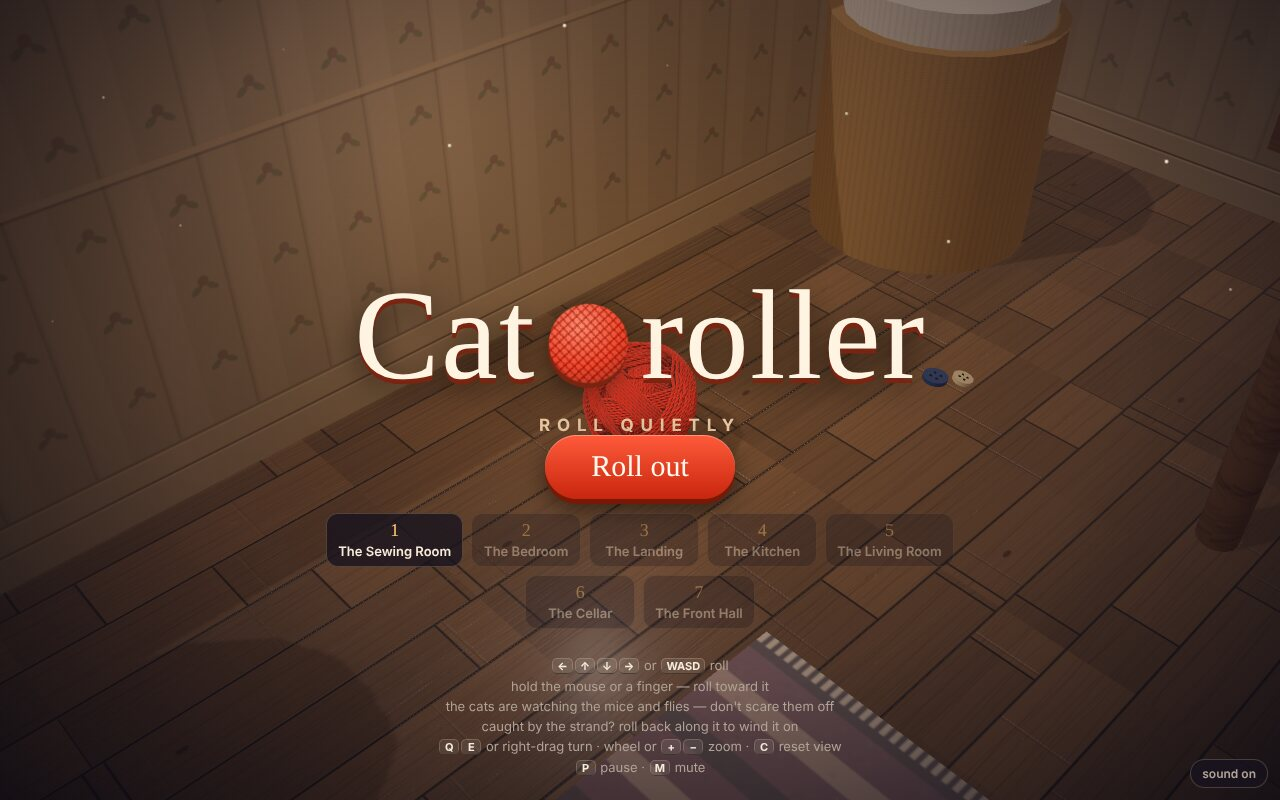
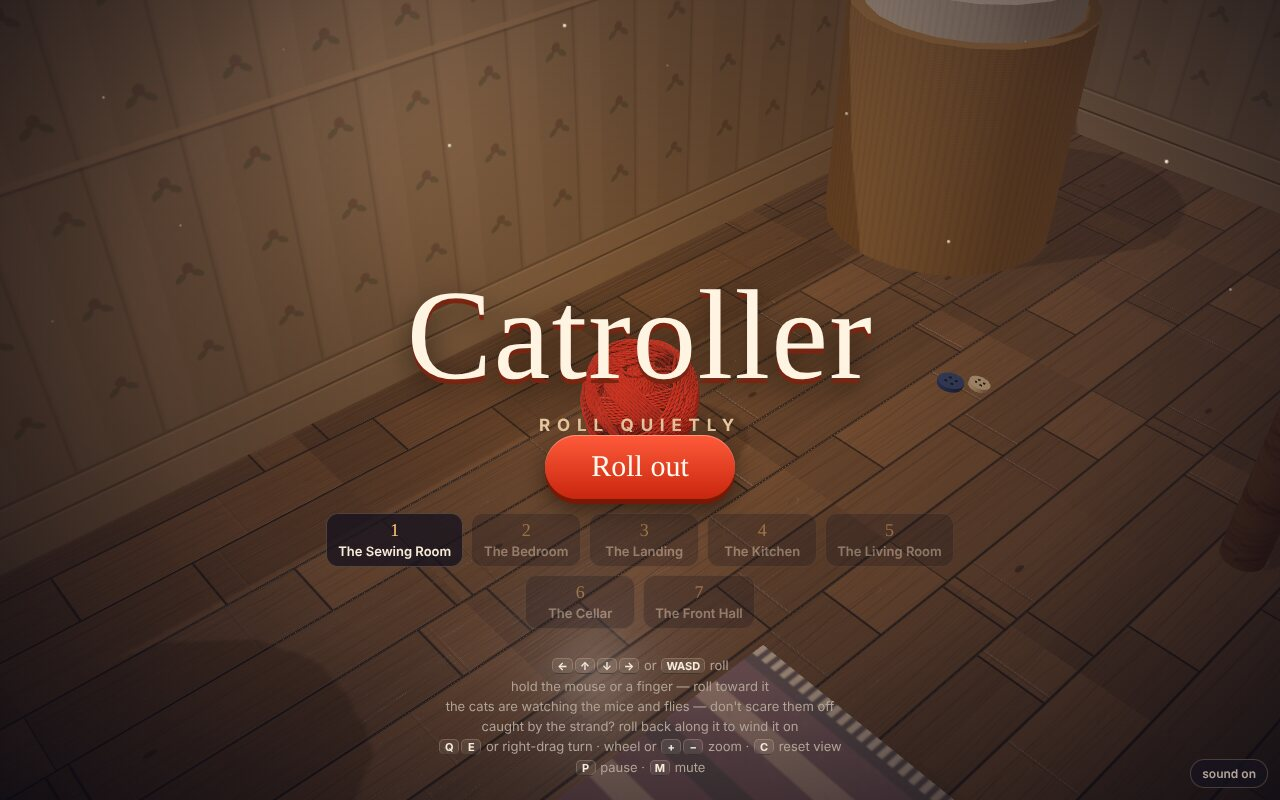
Title: Catroller as one word, without the yarn ball between
Claude-Session: https://claude.ai/code/session_01Y9D7iwPbKH2H9r2GH4JoZW

diff --git a/src/styles.css b/src/styles.css
@@ -250,10 +250,6 @@ html, body {
 .crest { text-align: center; }
 .crest h1 {
   margin: 0;
-  display: flex;
-  align-items: center;
-  justify-content: center;
-  gap: 0.08em;
   font-family: var(--display);
   font-weight: 400;
   font-size: clamp(54px, 13vw, 128px);
@@ -261,20 +257,6 @@ html, body {
   color: var(--cream);
   text-shadow: 0 5px 0 #7a2412, 0 10px 30px rgba(0, 0, 0, 0.7);
 }
-/* The o of "roller" is a ball of yarn. */
-.crest .ball {
-  display: inline-block;
-  width: 0.62em; height: 0.62em;
-  margin: 0.12em 0.02em 0;
-  border-radius: 50%;
-  background:
-    repeating-linear-gradient(35deg, rgba(255, 255, 255, 0.0) 0 4px, rgba(120, 10, 0, 0.35) 4px 6px),
-    repeating-linear-gradient(-55deg, rgba(255, 255, 255, 0.12) 0 5px, rgba(120, 10, 0, 0.3) 5px 7px),
-    radial-gradient(circle at 35% 30%, #ff7a5a, var(--yarn) 55%, #8a1808);
-  box-shadow: 0 5px 0 #7a2412, 0 10px 30px rgba(0, 0, 0, 0.6);
-  animation: roll 6s linear infinite;
-}
-@keyframes roll { to { transform: rotate(360deg); } }
 .crest .tag { margin: 6px 0 0; font-size: 17px; font-weight: 700; letter-spacing: 0.4em; text-transform: uppercase; color: #e8c8a0; }
 
 .menu { display: grid; justify-items: center; gap: 14px; max-width: 720px; }

diff --git a/index.html b/index.html
@@ -30,7 +30,7 @@
 <section id="title" hidden>
   <div class="stars" aria-hidden="true"><i></i><i></i><i></i><i></i><i></i><i></i><i></i><i></i><i></i><i></i><i></i><i></i></div>
   <header class="crest">
-    <h1><span class="word">Cat</span><span class="ball" aria-hidden="true"></span><span class="word">roller</span></h1>
+    <h1>Catroller</h1>
     <p class="tag">roll quietly</p>
   </header>
   <div class="menu">
